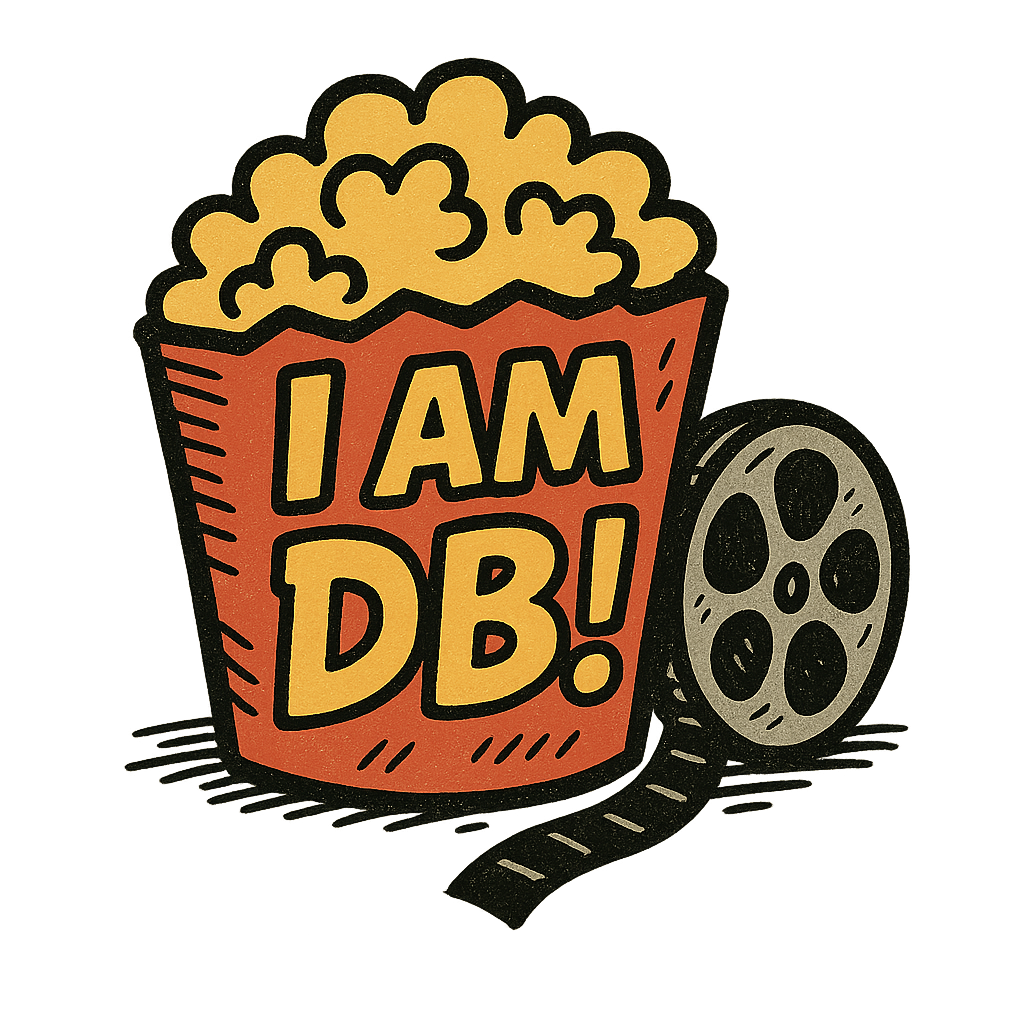
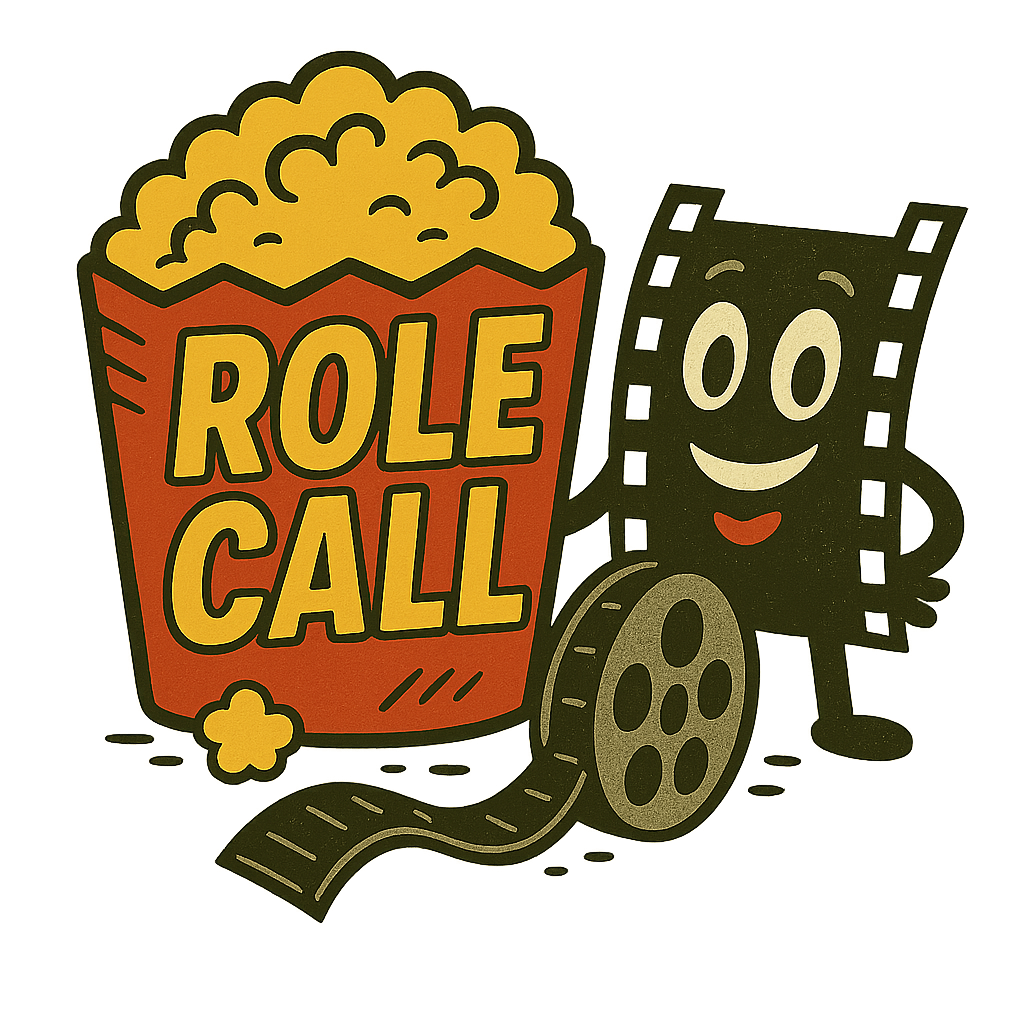
Changing app name to "Role Call"

diff --git a/privacy-policy-site/src/App.jsx b/privacy-policy-site/src/App.jsx
@@ -14,12 +14,12 @@ function App() {
 
       <h2 style={{ color: "#333", marginTop: "24px", marginBottom: "12px" }}>Introduction</h2>
       <p style={{ marginBottom: "16px" }}>
-        Thank you for using I Am DB. This Privacy Policy explains how we handle your information when you use our application.
+        Thank you for using Role Call. This Privacy Policy explains how we handle your information when you use our application.
       </p>
 
       <h2 style={{ color: "#333", marginTop: "24px", marginBottom: "12px" }}>No Data Collection</h2>
       <p style={{ marginBottom: "16px" }}>
-        I Am DB does not collect any personal information or usage data from you. All your interactions with the app remain private.
+        Role Call does not collect any personal information or usage data from you. All your interactions with the app remain private.
       </p>
 
       <h2 style={{ color: "#333", marginTop: "24px", marginBottom: "12px" }}>Third-Party Services</h2>

diff --git a/App.tsx b/App.tsx
@@ -23,7 +23,7 @@ export default function App() {
           <UnifiedSplashScreen
             isVisible={showSplash}
             onFinish={handleSplashFinish}
-            appName="I Am DB" // Customize the app name
+            appName="Role Call" // Customize the app name
           />
 
           <MainScreen />
